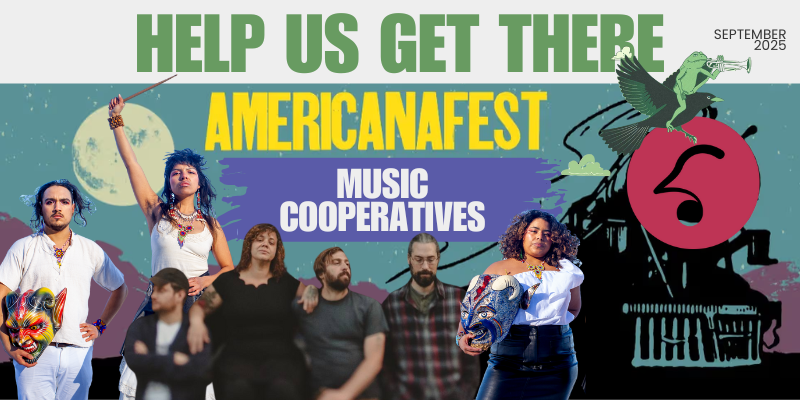
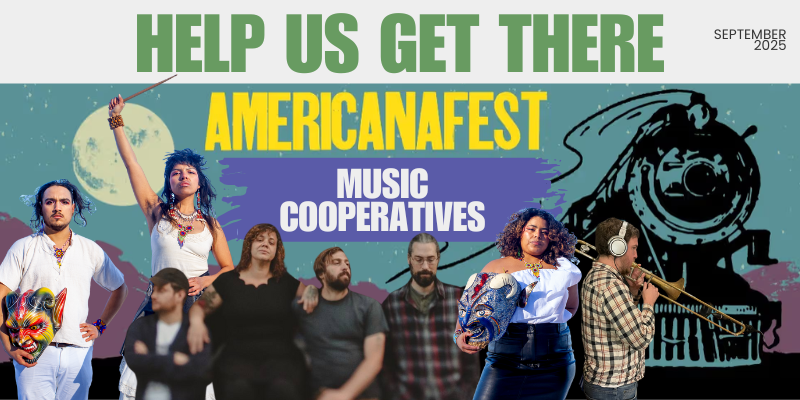
fix: update hero, remove olive

Changed region(s): [[0.5625, 0.12, 0.9688, 1.0]]

diff --git a/app/page.tsx b/app/page.tsx
@@ -25,8 +25,6 @@ other outlets. Alex has also worked in the solidarity economy movement as
 
 *[McKenzie Jones]()*, co-founder of [Strange Heavy](https://mirlo.space/strange-heavy) [bio and photo here]
 
-*[Olive Scibelli]()*, co-founder of [DRKMTTR Collective](https://www.drkmttrcollective.com/) [bio and photo here]
-
 *[Sonia Erika]()*, co-founder of [Death Is A Business](https://mirlo.space/death-is-a-business) [bio and photo here]
 
 To help them get there, we've set up this fundraiser page to invite donations to cover the costs for them and their bandmates to participate in Americanafest. We welcome donations of any size, and if you aren't able to contribute cash right now, please share the link with your networks. Thanks so much for your support!
